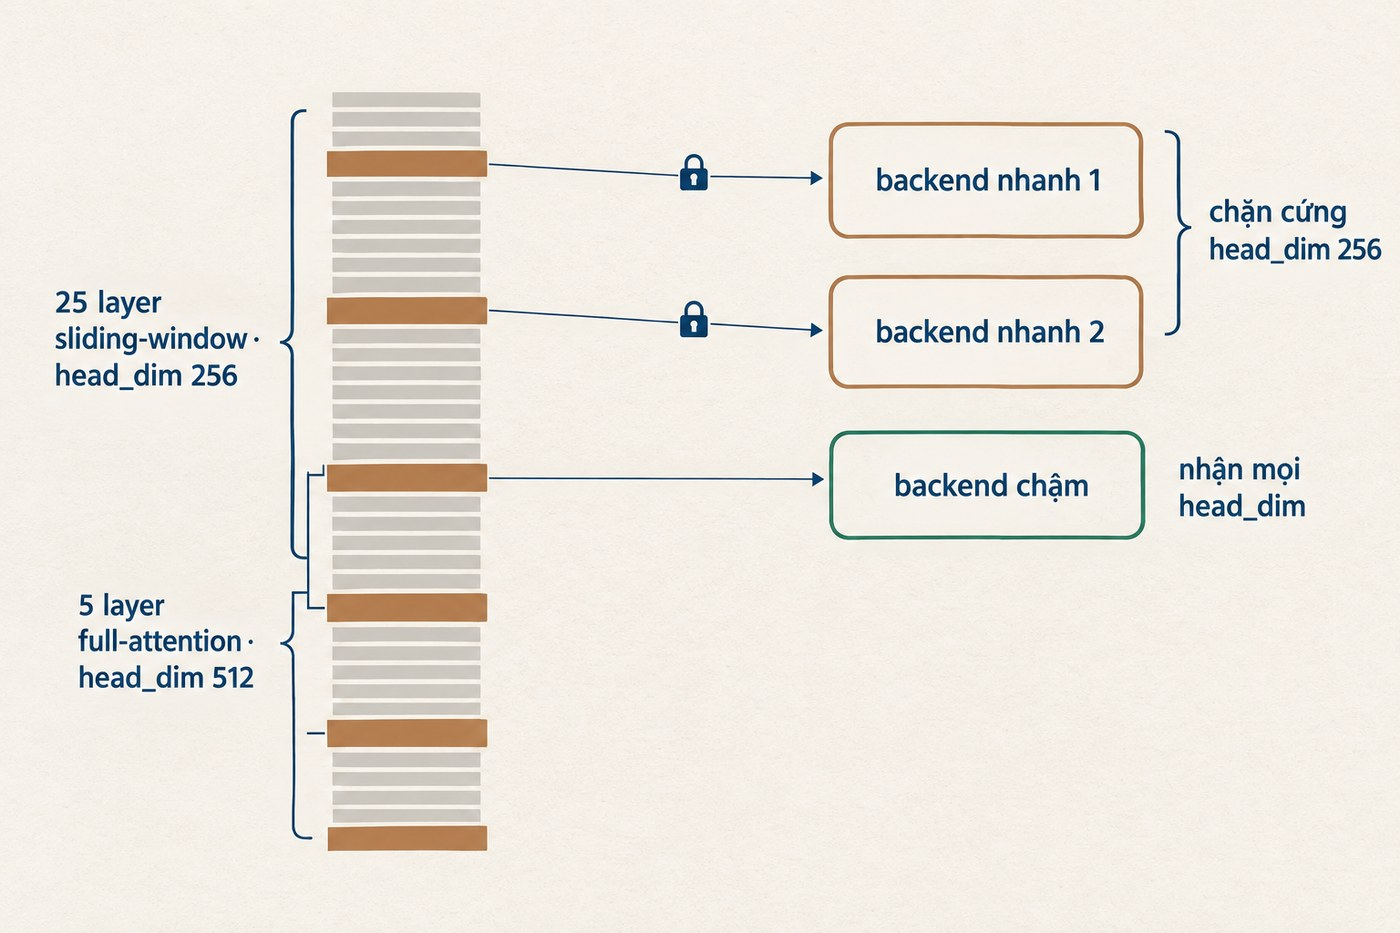
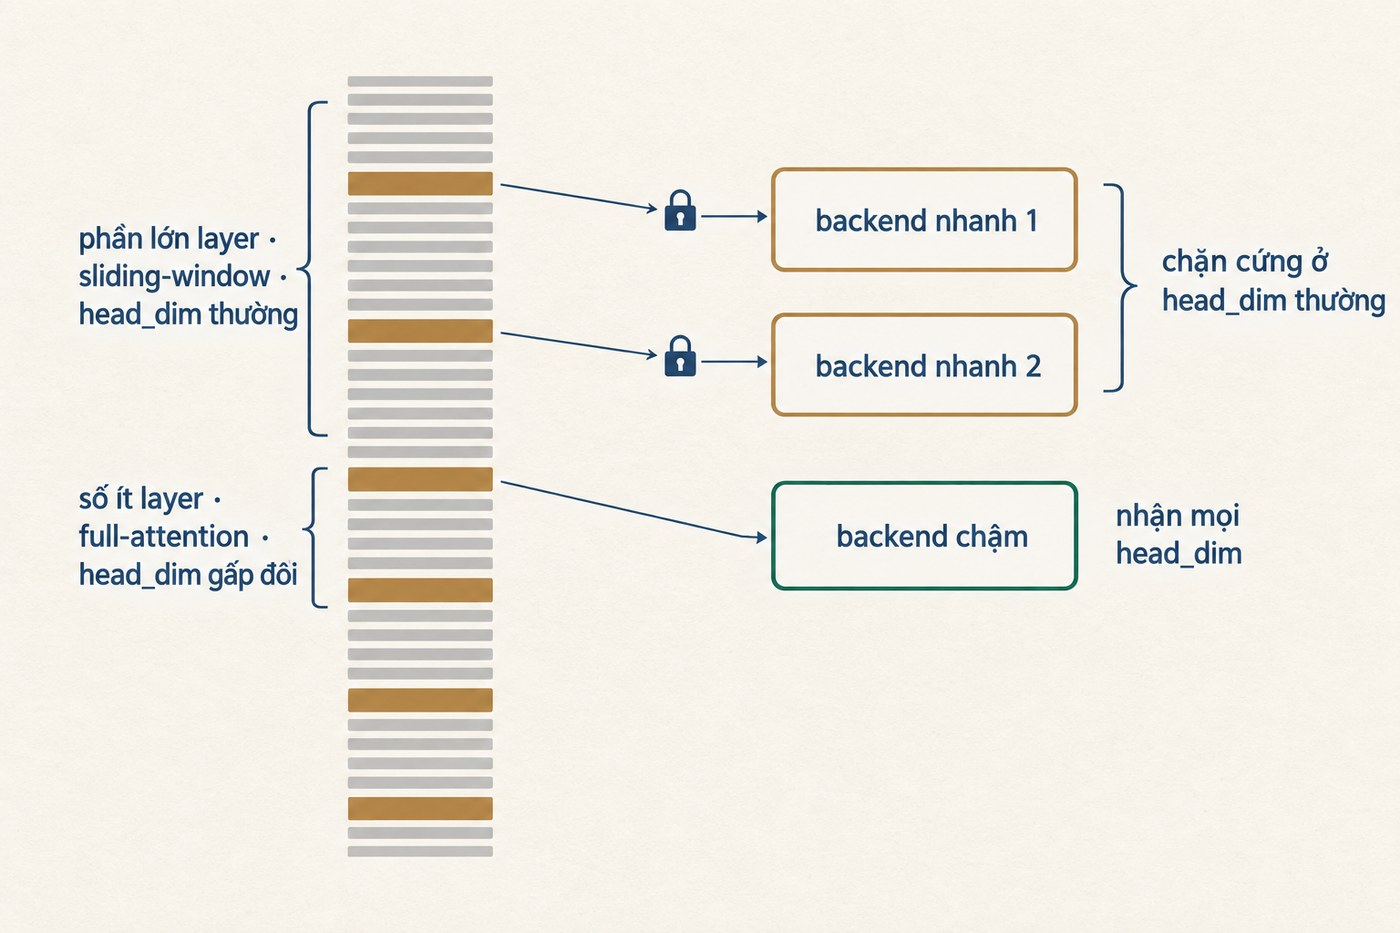
Giữ cơ chế, bỏ vân tay nhận dạng model nền
Bỏ cỡ tham số (35 tỷ, 26 tỷ), tỉ lệ layer (25 trong 30) và con số head_dim
(256/512). Giữ nguyên phần giải thích vì sao model chỉ chạy được backend
chậm: phần lớn layer sliding-window head_dim thường, số ít layer
full-attention head_dim gấp đôi do gộp K với V.

Vẽ lại mech-layers vì nhãn trong hình cũng in đúng các con số đó.

diff --git a/posts/nhanh-bay-lan-khong-them-gpu/index.html b/posts/nhanh-bay-lan-khong-them-gpu/index.html
@@ -35,7 +35,7 @@
 
 <h2>Một lần đổi engine, không đổi gì khác</h2>
 
-<p><code>misa-ai-1.1</code> phục vụ khoảng một triệu request mỗi ngày trên cụm GPU nội bộ. Đây là model MoE 35 tỷ tham số, kiến trúc hybrid linear-attention, trọng số FP8.</p>
+<p><code>misa-ai-1.1</code> phục vụ khoảng một triệu request mỗi ngày trên cụm GPU nội bộ. Đây là model MoE kiến trúc hybrid linear-attention, trọng số FP8.</p>
 
 <p>Khi nâng cấp, tôi giữ nguyên mọi thứ trừ engine: trọng số, context length, memory fraction, chunked prefill size, phần GPU được cấp, và cả hai bản đều không bật speculative decoding. Tôi muốn biết chắc phần nhanh lên đến từ đâu, nên chỉ đổi đúng một biến.</p>
 
@@ -83,7 +83,7 @@
 
 <p>Các layer full-attention phải nhớ nguyên văn: mỗi token đọc vào thì cất thêm cặp K và V của token đó, nên vùng này dày lên theo từng token, khoảng 20 KB mỗi token. Đây là KV cache.</p>
 
-<p>Các layer linear-attention thì không giữ lịch sử. Mỗi layer mang theo một ma trận cố định, và mỗi token mới đi qua chỉ cập nhật vào ma trận đó chứ không ghi thêm dòng nào. Đọc 10 nghìn hay 100 nghìn token thì ma trận vẫn đúng chừng ấy ô. Với model này là 30 layer như vậy, cộng lại khoảng 63 MB cho mỗi request đang chạy, và con số đó không đổi dù prompt dài hay ngắn.</p>
+<p>Các layer linear-attention thì không giữ lịch sử. Mỗi layer mang theo một ma trận cố định, và mỗi token mới đi qua chỉ cập nhật vào ma trận đó chứ không ghi thêm dòng nào. Đọc 10 nghìn hay 100 nghìn token thì ma trận vẫn đúng chừng ấy ô. Cộng hết các layer như vậy lại thì khoảng 63 MB cho mỗi request đang chạy, và con số đó không đổi dù prompt dài hay ngắn.</p>
 
 <p>Engine chia bộ nhớ GPU cho hai vùng theo một tỉ lệ mặc định. Với tải của MISA, thứ đẩy tới giới hạn là số request chạy song song chứ không phải độ dài prompt: mỗi request chiếm đủ 63 MB kể cả khi nó chỉ hỏi một câu ngắn. Vùng đó cạn trước trong khi KV cache còn thừa chỗ, nên request mới phải xếp hàng dù GPU vẫn còn bộ nhớ trống. Dời ranh giới theo số đo thật thì cả hai vùng cùng dùng hết, và độ dài context giữ nguyên.</p>
 
@@ -119,21 +119,21 @@
 
 <h2>Cùng đợt đó, misa-ai-2.0</h2>
 
-<p><code>misa-ai-2.0</code> là model đa phương thức 26 tỷ tham số, tôi chuyển sang sglang trong cùng đợt. Lần này phần việc nặng hơn: trước khi đổi được backend attention, phải sửa chính engine.</p>
+<p><code>misa-ai-2.0</code> là model đa phương thức, tôi chuyển sang sglang trong cùng đợt. Lần này phần việc nặng hơn: trước khi đổi được backend attention, phải sửa chính engine.</p>
 
-<p>sglang có bốn backend attention, và trên H200 thì model này chỉ dùng được cái chậm nhất. Lý do nằm ở cấu trúc model: 25 trong 30 layer là sliding-window với head_dim 256, còn 5 layer full-attention chạy ở head_dim 512 vì gộp K với V làm một tensor. Hai backend nhanh nhất chặn cứng head_dim ở 256 nên từ chối thẳng. Backend còn lại nhận được 512 nhưng chưa bao giờ nạp nổi trong image đang dùng.</p>
+<p>sglang có bốn backend attention, và trên H200 thì model này chỉ dùng được cái chậm nhất. Lý do nằm ở cấu trúc model: phần lớn layer là sliding-window chạy ở head_dim thông thường, còn một số ít layer full-attention chạy ở head_dim lớn gấp đôi, vì chúng gộp K với V làm một tensor. Hai backend nhanh nhất chặn cứng head_dim ở mức thông thường nên từ chối thẳng. Backend còn lại nhận được kích thước lớn nhưng chưa bao giờ nạp nổi trong image đang dùng.</p>
 
 </div>
 
 <figure>
-  <img src="img/mech-layers.jpg" alt="Sơ đồ: cột 30 layer, 25 layer sliding-window head_dim 256 và 5 layer full-attention head_dim 512; hai backend nhanh khoá ở 256, backend chậm nhận mọi head_dim">
-  <figcaption><b>Năm layer quyết định cả model chạy backend nào.</b> Chúng chỉ chiếm một phần sáu số layer, nhưng là phần duy nhất phải đọc lại toàn bộ ngữ cảnh, và là phần duy nhất chạy ở head_dim 512.</figcaption>
+  <img src="img/mech-layers.jpg" alt="Sơ đồ: cột layer của model, phần lớn là sliding-window head_dim thường và một số ít full-attention head_dim gấp đôi; hai backend nhanh khoá ở head_dim thường, backend chậm nhận mọi head_dim">
+  <figcaption><b>Một nhóm nhỏ layer quyết định cả model chạy backend nào.</b> Chúng chiếm thiểu số, nhưng là phần duy nhất phải đọc lại toàn bộ ngữ cảnh, và là phần duy nhất chạy ở head_dim lớn.</figcaption>
 </figure>
 
 <div class="col">
 
 
-<p>Hai bản vá gỡ chỗ đó. Bản thứ nhất lấy từ một PR upstream chưa được merge, sửa kernel chậm: nó đặt cứng số khối K/V được chở song song với việc tính là một, tức chở một khối, chờ về, tính xong rồi mới chở khối sau, và suốt lúc chờ thì phần tính của GPU ngồi không. Khối ở head_dim 512 nặng gấp đôi nên khoảng ngồi không cũng dài gấp đôi. Bản vá cho kernel chọn số khối theo head_dim thay vì đặt cứng.</p>
+<p>Hai bản vá gỡ chỗ đó. Bản thứ nhất lấy từ một PR upstream chưa được merge, sửa kernel chậm: nó đặt cứng số khối K/V được chở song song với việc tính là một, tức chở một khối, chờ về, tính xong rồi mới chở khối sau, và suốt lúc chờ thì phần tính của GPU ngồi không. Khối ở nhóm layer head_dim lớn nặng gấp đôi nên khoảng ngồi không cũng dài gấp đôi. Bản vá cho kernel chọn số khối theo head_dim thay vì đặt cứng.</p>
 
 </div>
 
